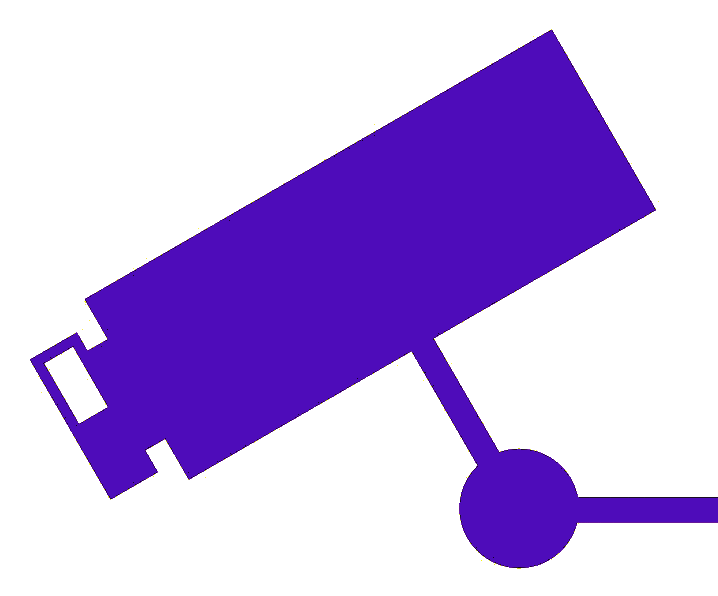
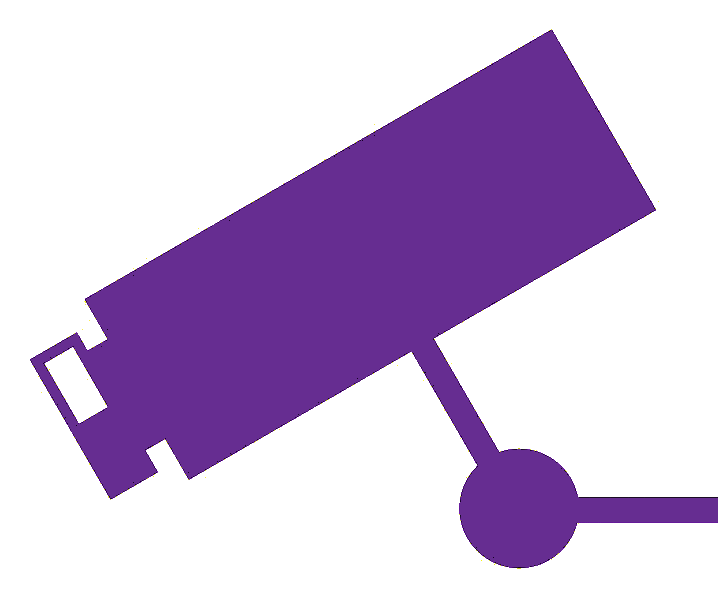
Changement interface Start

diff --git a/CamNect.GUI/CamNect.GUI/Views/Start.xaml b/CamNect.GUI/CamNect.GUI/Views/Start.xaml
@@ -18,27 +18,10 @@
                     <TranslateTransform/>
                 </TransformGroup>
             </TextBlock.RenderTransform><Run Language="fr-fr" Text="Camera control over Kinect "/></TextBlock>
-        <TextBlock x:Name="title" HorizontalAlignment="Center" TextWrapping="Wrap" VerticalAlignment="Top" Height="98" Width="450" FontFamily="Gisha" FontSize="92" FontWeight="Bold" Foreground="#FF52318F" Margin="526,144,936,0"><Run Language="fr-fr" Text="CAMNECT"/></TextBlock>
-        <Image HorizontalAlignment="Left" Height="168" Margin="1622,144,0,0" VerticalAlignment="Top" Width="220" Source="/CamNect.GUI;component/Ressources/Images/cameraImageViolet.png"/>
-        <Image HorizontalAlignment="Left" Height="304" Margin="1439,686,0,0" VerticalAlignment="Top" Width="403" Source="../Ressources/Images/image_groupe.jpg"/>
-       
-        <!--<Image HorizontalAlignment="Left" Height="92" Margin="143,307,0,0" VerticalAlignment="Top" Width="350" Source="../Ressources/Images/kinect.png" RenderTransformOrigin="0.5,0.5"  Panel.ZIndex="5000">
-            <Image.Effect>
-                <DropShadowEffect/>
-            </Image.Effect>
-        </Image>
-        <Image HorizontalAlignment="Left" Height="100" Margin="205,237,0,0" VerticalAlignment="Top" Width="100" Source="../Ressources/Images/ptz214.png" RenderTransformOrigin="0.5,0.5">
-            <Image.RenderTransform>
-                <TransformGroup>
-                    <ScaleTransform/>
-                    <SkewTransform AngleX="-0.375"/>
-                    <RotateTransform Angle="-10"/>
-                    <TranslateTransform X="0.327"/>
-                </TransformGroup>
-            </Image.RenderTransform>
-        </Image>-->
+        <TextBlock x:Name="title" HorizontalAlignment="Center" TextWrapping="Wrap" VerticalAlignment="Top" Height="98" Width="450" FontFamily="Gisha" FontSize="92" FontWeight="Bold" Foreground="#FF662D91" Margin="526,144,936,0"><Run Language="fr-fr" Text="CAMNECT"/></TextBlock>
+        <Image HorizontalAlignment="Left" Height="168" Margin="1592,226,0,0" VerticalAlignment="Top" Width="220" Source="/CamNect.GUI;component/Ressources/Images/cameraImageViolet.png"/>
 
-        <Grid Margin="0,62,0,-62">
+        <Grid Margin="0,62,0,0">
             <CircularAnimations_Examples:BlueDot Width="40" Height="40" RenderTransformOrigin="0.508,2" BeginTime='00:00:00'/>
             <CircularAnimations_Examples:BlueDot Width="40"  Height="40" RenderTransformOrigin="0.508,2" BeginTime='00:00:00.2'>
                 <CircularAnimations_Examples:BlueDot.RenderTransform>
@@ -110,6 +93,19 @@
                     </TransformGroup>
                 </CircularAnimations_Examples:BlueDot.RenderTransform>
             </CircularAnimations_Examples:BlueDot>
+            <Image HorizontalAlignment="Left" Height="223" Margin="2150,398,-530,0" VerticalAlignment="Top" Width="292" Source="/CamNect.GUI;component/Ressources/Images/rsz_groupe_projets8.jpg"/>
+            <Image HorizontalAlignment="Left" Height="290" Margin="1488,710,0,0" VerticalAlignment="Top" Width="414" Source="/CamNect.GUI;component/Ressources/Images/logo1.png"/>
+            <Image HorizontalAlignment="Left" Height="100" Margin="86,813,0,0" VerticalAlignment="Top" Width="300" Source="/CamNect.GUI;component/Ressources/Images/kinectS8.png" RenderTransformOrigin="0.492,0.49">
+                <Image.RenderTransform>
+                    <TransformGroup>
+                        <ScaleTransform/>
+                        <SkewTransform/>
+                        <RotateTransform Angle="-0.298"/>
+                        <TranslateTransform/>
+                    </TransformGroup>
+                </Image.RenderTransform>
+            </Image>
+            <Image HorizontalAlignment="Left" Height="100" Margin="2192,896,-380,0" VerticalAlignment="Top" Width="100" Source="/CamNect.GUI;component/Ressources/Images/config.png"/>
         </Grid>
 
     </Grid>
